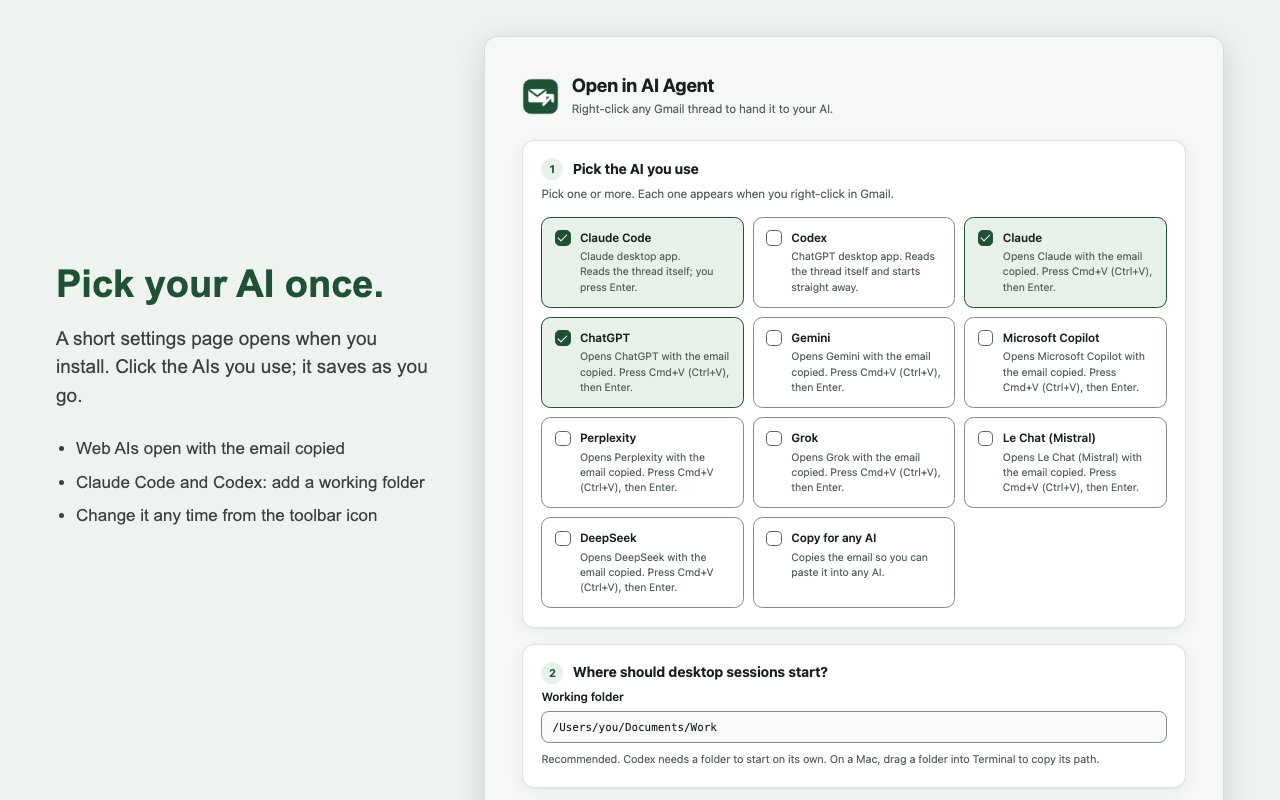
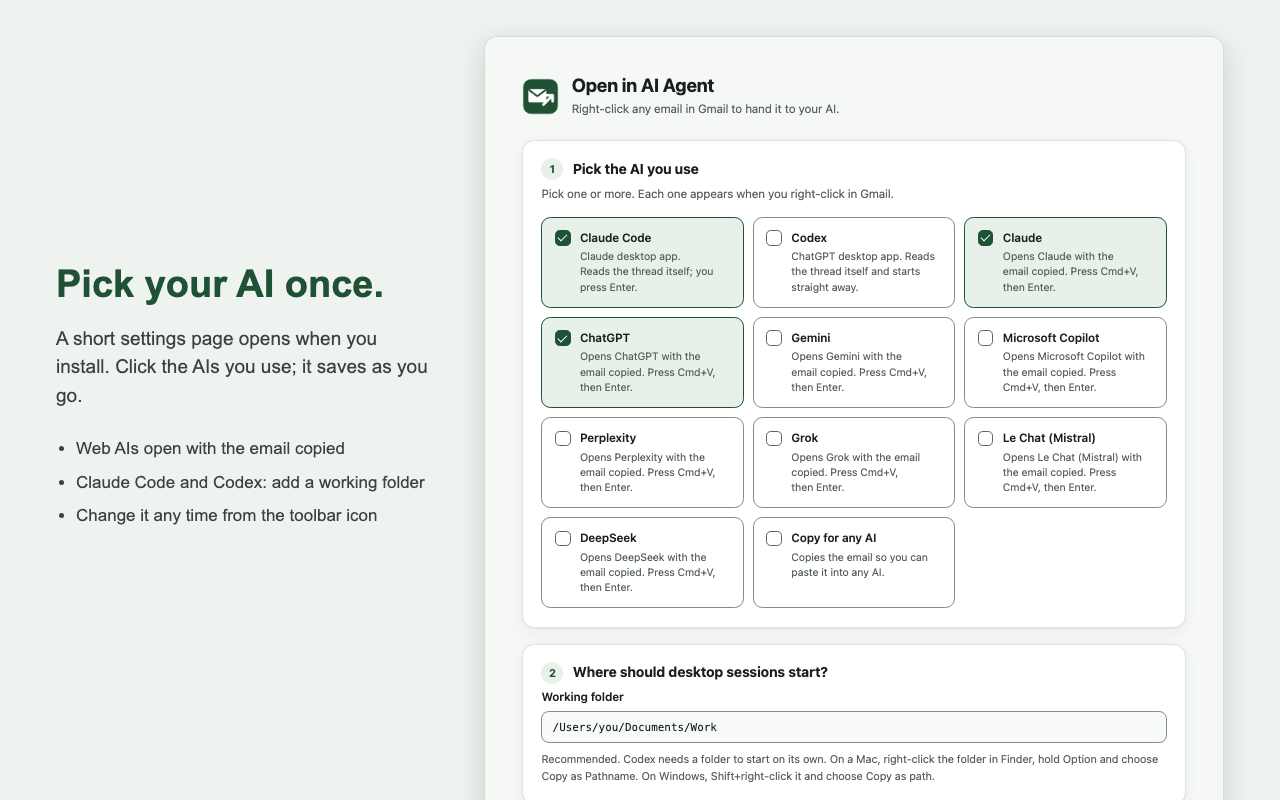
Polish 1.1.0: neutral store summary, paste key by platform, simpler folder help
- Store summary no longer lists brand names (Web Store keyword-spam risk)
- Paste key shown as Cmd+V or Ctrl+V for the user's computer
- Folder help uses Finder's Copy as Pathname and Windows' Copy as path
- Help links to the website; consistent 'email' wording
- Upgrades from 1.0 open a what's-new note

diff --git a/options.html b/options.html
@@ -100,11 +100,13 @@
     <img src="icons/icon48.png" alt="">
     <div>
       <h1>Open in AI Agent</h1>
-      <p>Right-click any Gmail thread to hand it to your AI.</p>
+      <p>Right-click any email in Gmail to hand it to your AI.</p>
     </div>
   </header>
 
   <main>
+    <p class="notice" id="new-notice" hidden>New in 1.1: you can also hand an email to Claude, ChatGPT, Gemini and
+      other AIs. Pick them below. Claude Code and Codex work as before.</p>
     <p class="notice" id="reload-notice" hidden>Reload your Gmail tab, then right-click the email again. Gmail tabs that
       were open before the extension was installed or updated need one reload.</p>
 
@@ -126,8 +128,8 @@
       <label for="folder">Working folder</label>
       <input id="folder" type="text" placeholder="/Users/you/Documents/Work" spellcheck="false" autocomplete="off"
              aria-describedby="folder-hint">
-      <p class="hint" id="folder-hint">Recommended. Codex needs a folder to start on its own. On a Mac, drag a folder into
-        Terminal to copy its path.</p>
+      <p class="hint" id="folder-hint">Recommended. Codex needs a folder to start on its own. On a Mac, right-click the
+        folder in Finder, hold Option and choose Copy as Pathname. On Windows, Shift+right-click it and choose Copy as path.</p>
     </section>
 
     <section class="card step" aria-labelledby="try-title">
@@ -136,7 +138,7 @@
       </div>
       <div class="try">
         <a class="button" href="https://mail.google.com/" target="_blank" rel="noopener">Open Gmail</a>
-        <p>Right-click any email and pick your AI. Web AIs open with the email copied: press Cmd+V (Ctrl+V), then Enter.</p>
+        <p id="try-line">Right-click any email and pick your AI. Web AIs open with the email copied: press Cmd+V (Ctrl+V), then Enter.</p>
       </div>
       <p class="hint">Gmail already open? Reload that tab first.</p>
     </section>
@@ -153,7 +155,7 @@
     <span>Runs on your computer. Nothing is sent to us.</span>
     <nav>
       <a href="https://github.com/thomasoclegg/gmail-to-agent/blob/main/PRIVACY.md" target="_blank" rel="noopener">Privacy</a>
-      <a href="https://github.com/thomasoclegg/gmail-to-agent" target="_blank" rel="noopener">Help</a>
+      <a href="https://thomasoclegg.github.io/gmail-to-agent/" target="_blank" rel="noopener">Help</a>
     </nav>
   </footer>
 </div>

diff --git a/docs/index.html b/docs/index.html
@@ -4,7 +4,7 @@
 <meta charset="utf-8">
 <meta name="viewport" content="width=device-width, initial-scale=1">
 <title>Open in AI Agent for Gmail</title>
-<meta name="description" content="Free Chrome extension: right-click a Gmail thread to hand it to Claude, ChatGPT, Gemini, Copilot, Claude Code, Codex and more. Runs on your computer, open source.">
+<meta name="description" content="Free Chrome extension: right-click a Gmail thread to hand it to Claude, ChatGPT, Gemini, Copilot, Claude Code, Codex and other AIs. Runs on your computer, open source.">
 <meta property="og:title" content="Open in AI Agent for Gmail">
 <meta property="og:description" content="Right-click a Gmail thread to hand it to the AI you use. Free, local, open source.">
 <meta property="og:image" content="https://thomasoclegg.github.io/gmail-to-agent/shot-menu.png">

diff --git a/targets.js b/targets.js
@@ -1,7 +1,13 @@
 // Platforms a thread can be handed to. Plain script shared by content.js,
 // background.js (importScripts) and options.js.
 
-const PASTE_HINT = 'Press Cmd+V (Ctrl+V), then Enter.';
+// Cmd+V on a Mac, Ctrl+V elsewhere; both when the platform is unknown.
+const PASTE_KEYS = (() => {
+  const p = globalThis.navigator?.userAgentData?.platform || globalThis.navigator?.platform || '';
+  if (!p) return 'Cmd+V (Ctrl+V)';
+  return /mac/i.test(p) ? 'Cmd+V' : 'Ctrl+V';
+})();
+const PASTE_HINT = `Press ${PASTE_KEYS}, then Enter.`;
 
 const webTarget = (id, name, url) => ({
   id,

diff --git a/background.js b/background.js
@@ -27,7 +27,7 @@ async function firstRun({ reason, previousVersion }) {
   // 1.0.x only had the two desktop targets; keep them for upgraders.
   const legacy = /^1\.0\./.test(previousVersion || '');
   await chrome.storage.sync.set({ targets: legacy ? LEGACY_TARGETS : DEFAULT_TARGETS });
-  if (legacy && !s.folder) chrome.runtime.openOptionsPage();
+  if (legacy) chrome.tabs.create({ url: chrome.runtime.getURL('options.html#new') });
 }
 
 chrome.runtime.onInstalled.addListener(async (details) => {

diff --git a/options.js b/options.js
@@ -152,4 +152,8 @@ chrome.storage.sync.get({ targets: DEFAULT_TARGETS, folder: '' }, (s) => {
 });
 // Opened by background.js after a menu click in a Gmail tab that needs a reload.
 $('reload-notice').hidden = location.hash !== '#reload';
+// Opened by background.js for upgrades from 1.0.
+$('new-notice').hidden = location.hash !== '#new';
+$('try-line').textContent =
+  `Right-click any email and pick your AI. Web AIs open with the email copied: press ${PASTE_KEYS}, then Enter.`;
 showDonation();

diff --git a/content.js b/content.js
@@ -254,11 +254,7 @@ function chatPrompt(thread) {
 
 let toastTimer = 0;
 
-function pasteKeys() {
-  const platform = navigator.userAgentData?.platform || navigator.platform || '';
-  if (!platform) return 'Cmd+V (Ctrl+V)';
-  return /mac/i.test(platform) ? 'Cmd+V' : 'Ctrl+V';
-}
+const pasteKeys = () => PASTE_KEYS;
 
 function toastElement() {
   let el = document.getElementById('vpa-toast');

diff --git a/README.md b/README.md
@@ -73,7 +73,7 @@ To update a downloaded copy, unzip the new version over the same folder and clic
 Click the extension's icon in Chrome's toolbar (pin it from the puzzle-piece menu), or open **Details > Extension options** in `chrome://extensions`.
 
 - **Pick the AI you use.** Click a tile to turn it on or off. Changes save straight away. New installs start with Claude and ChatGPT. Upgrades from 1.0 keep Claude Code and Codex until you change them.
-- **Where should desktop sessions start?** Shown only when Claude Code or Codex is picked. Recommended: Codex needs a folder to start on its own, and without one Claude Code uses its default folder. On a Mac, drag a folder into Terminal to copy its path.
+- **Where should desktop sessions start?** Shown only when Claude Code or Codex is picked. Recommended: Codex needs a folder to start on its own, and without one Claude Code uses its default folder. On a Mac, right-click the folder in Finder, hold Option and choose Copy as Pathname. On Windows, Shift+right-click it and choose Copy as path.
 
 Settings live in Chrome's sync storage, so they follow your Chrome profile.
 

diff --git a/store/listing.md b/store/listing.md
@@ -6,7 +6,7 @@ Paste-ready answers for the Developer Dashboard. Upload `Open-in-AI-Agent_Store-
 
 **Name** (from manifest): Open in AI Agent for Gmail
 
-**Summary** (from manifest, 126 of 132 characters): Right-click a Gmail thread to hand it to Claude, ChatGPT, Gemini, Copilot, Claude Code, Codex and more. Runs on your computer.
+**Summary** (from manifest, 110 of 132 characters): Right-click a Gmail thread to hand it to the AI you use, on the web or on your desktop. Runs on your computer.
 
 **Description:**
 
